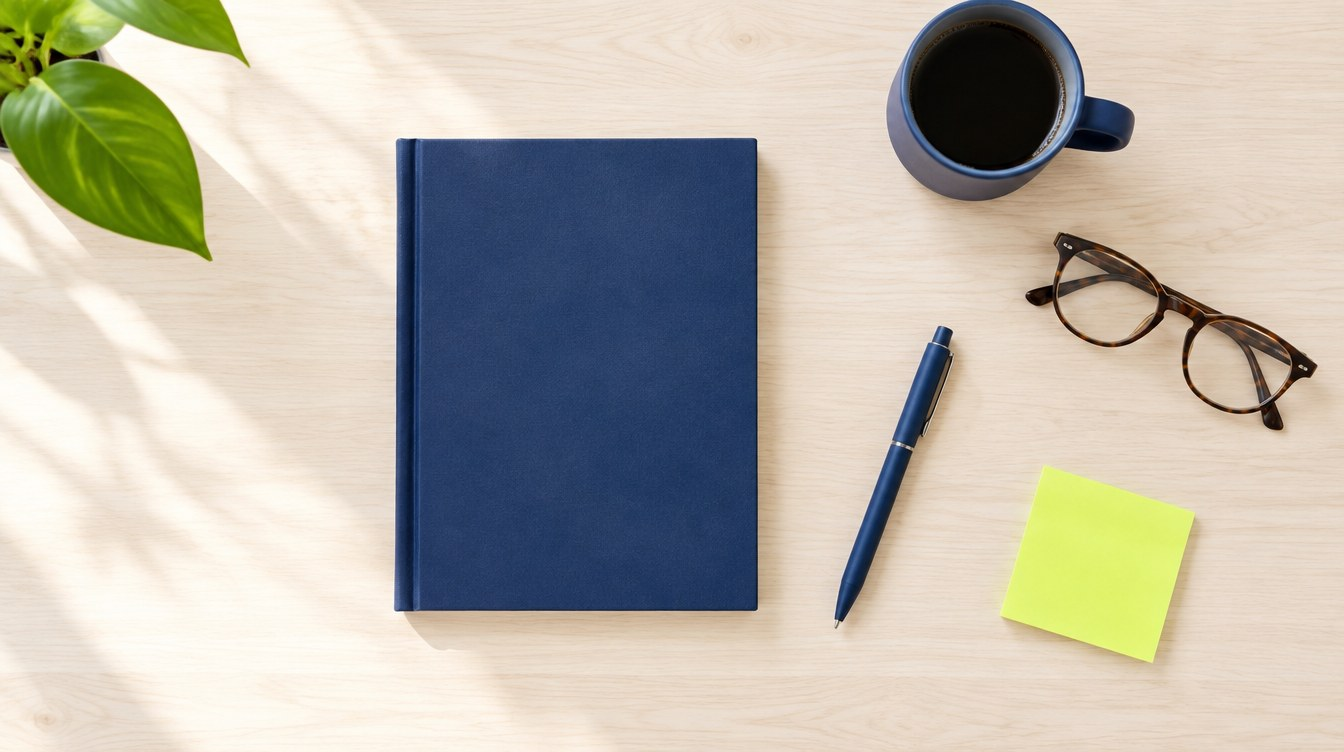
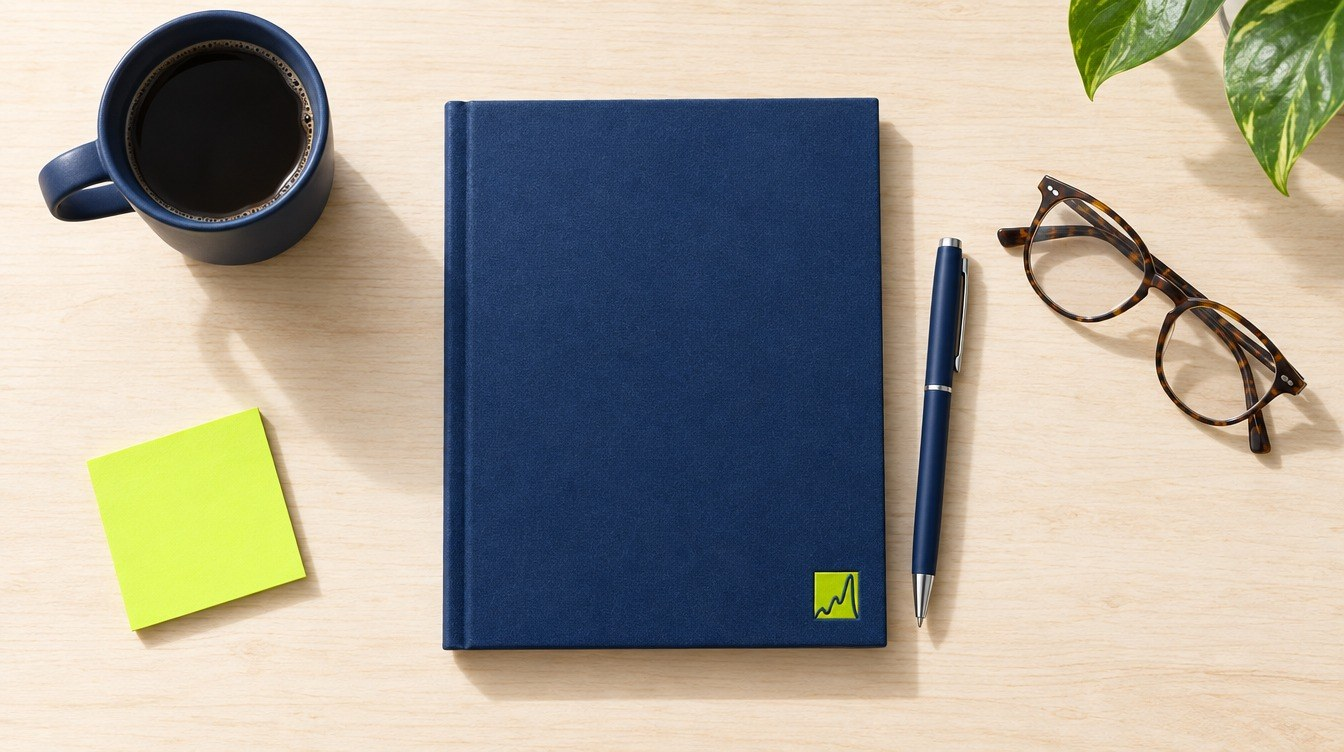
A 404 is a broken page, not evidence of absence (v2.16.3 → v2.17.0)
The city set was meant to be one shot per office hoffman.com lists. It shipped 10.
There are 16.

hoffman.com/locations/europe-pr-agency/ returns a 404 and an earlier pass took that
as settled — no European offices, gap recorded honestly, moved on. The page is just
at a different URL: /locations/pr-agency-europe/, which lists three offices with
LONDON as the European HQ. Checking the sitemap properly found two more gaps: the
US page lists three offices (San Jose, Portland, Boston) and the China page lists
two (Beijing, Shanghai).

Six new shots on their real districts: London (Kings Cross Rd), Munich (Rosental,
Altstadt), Paris (rue Feydeau), Portland (Lloyd District), Boston (Franklin St),
Shanghai (former French Concession).

Lesson, and the transferable part: a 404 is a broken page, not evidence of absence.
Check the sitemap before concluding something does not exist.

The Storyline mark, done by reference rather than by hand. The real SVG rendered,
uploaded and passed to the image model as an image_reference with an instruction to
reproduce it exactly. It lands material, lighting, perspective and shadow far better
than compositing a PNG — my hand-paste overhung the cover edge and muddied the lime
to olive, and a perspective warp onto the stack came out off-plane and was binned.

AGENTS.md §4.6 rewritten. It said "never let a generative model draw a fixed brand
asset", which is too absolute. The rule is now: never let it INVENT one, always give
[…]

diff --git a/CHANGELOG.md b/CHANGELOG.md
@@ -4,6 +4,77 @@ Everything that's changed in the Hoffman design system, newest first. The system
 really lives in the Claude Design project
 (`d10f7f7f-3158-4438-9664-46d071bea8ff`) — this repo is the public copy of it.
 
+## 2026-09-17 — A 404 is a broken page, not evidence of absence (v2.16.3 → v2.17.0)
+
+### Six offices were missing from the city set, including the European HQ
+
+The photography brief was "one street shot per office `hoffman.com` lists." It
+shipped **ten**. There are **sixteen**.
+
+`hoffman.com/locations/europe-pr-agency/` returns a 404, and an earlier pass took
+that as settled: no European offices, nothing to source an address from, gap
+recorded honestly and moved on. **The page is simply at a different URL.** The live
+one is `/locations/pr-agency-europe/`, and it lists three offices — with **London
+as the European HQ**.
+
+Checking the sitemap properly turned up two more gaps in the same list:
+
+- **The US page lists three offices**, not one: San Jose, **Portland** and **Boston**
+- **The China page lists two**: Beijing and **Shanghai**
+
+Six new shots, each on its real district: **London** (Kings Cross Road, wet
+pavement, black cabs, yellow-stock brick), **Munich** (Rosental, Altstadt cobbles,
+market awnings, bicycles), **Paris** (rue Feydeau, a café terrace under Haussmann
+limestone), **Portland** (Lloyd District, damp, firs, the MAX line), **Boston**
+(Franklin Street, granite meeting glass, autumn leaves) and **Shanghai** (plane
+trees and shikumen brick in the former French Concession).
+
+**The lesson is the transferable part: a 404 is a broken page, not evidence of
+absence.** The earlier gap was recorded honestly and was still wrong. Check the
+sitemap before concluding something does not exist.
+
+### The brand mark, done properly — by reference, not by hand
+
+v2.15.0 removed AI-invented squiggles and wrote the rule. This release does the
+positive half: **`assets/storyline-mark.svg` rendered, uploaded, and passed to the
+image model as a reference**, with the instruction to reproduce it exactly.
+
+It lands the material, lighting, perspective and shadow far better than
+hand-compositing a PNG does — a first attempt at pasting it overhung the cover edge
+and muddied the lime to olive, and a perspective warp onto the notebook stack came
+out tilted off-plane and was thrown away.
+
+**`AGENTS.md` §4.6 is rewritten accordingly.** It used to say *never let a
+generative model draw a fixed brand asset*, which is now too absolute. The rule is
+**never let it INVENT one — always give it the real one**, with the three-step
+method and this limit stated plainly:
+
+> This gives you a **faithful reproduction, not the asset**. At the size a mark
+> occupies on a photographed prop it is indistinguishable. It is still not the logo
+> file — never crop one out and use it as artwork, never let one stand in for the
+> real SVG in a layout. Photographs of props only.
+
+### Typographic easter eggs
+
+Same method, different reference: a specimen rendered in the **real Poppins Bold
+and Libre Baskerville Italic** from `fonts/`, handed over as an image reference so
+the type in the photograph is the brand's type rather than a lookalike.
+
+- **`book-spines`** — titles running up navy and cream spines, one word in the
+  serif italic
+- **`highlighter-type`** — *"The story is always there."*, the italic on *always*,
+  a lime highlighter stroke dragged across it and overshooting at one end
+- **`wall-print`** — a framed print, sans headline with one purple italic word,
+  someone walking past
+
+Which answers the earlier note that the easter eggs felt forced: they do not have
+to be the logo. **Brand typography and brand colour are easter eggs too**, and they
+carry less weight.
+
+**49 photographs**, sixteen of them cities.
+
+Minor — six offices found, the mark done by reference, and type that is actually ours.
+
 ## 2026-09-17 — The portrait wall had no Caucasian face on it (v2.16.2 → v2.16.3)
 
 Six storyteller portraits: Korean, Japanese, Malay, Black, Indian, Chinese. A good

diff --git a/AGENTS.md b/AGENTS.md
@@ -89,7 +89,7 @@ The most common Hoffman-deck failure after tiny type is a **mishandled title**: 
 Almost every page in a Hoffman deck carries a graphic/image alongside the text. Do not strip images to make a layout "clean." When a real image isn't available, reserve a standardized placeholder (below). **How to decide whether to generate, ask for, or placeholder an image — and the Hoffman house illustration style — is `IMAGERY.md`; settle it during intake.** Type-only slides are the exception (big statement, pull quote, section divider can be type-led — but even sections often carry a small graphic).
 
 ## 3.5 When we show a market, show THAT market
-We have offices in ten cities and most of them are in Asia. A photograph of
+We have offices in **sixteen cities** — ten of them in Asia, three in the US, three in Europe. A photograph of
 generically "Asian" people in a generically modern office tells a Seoul client
 nothing, and it tells a Taipei client the same nothing. **If a slide is about a
 market, the image has to be recognisably that market.**
@@ -153,16 +153,27 @@ sliced off.
 - **It is not enough to look at the deck once.** This is invisible until a specific
   image lands in a specific slot, so check it whenever either one changes.
 
-## 4.6 Never let a generative model draw a fixed brand asset
-A model cannot reproduce the Storyline, the logo or the wordmark. It can only
-produce **an interpretation** — and an interpretation of the Storyline is a
-violation of it. This is settled, not a matter of taste: **Lou ruled that the
-storyarc must not "take the form of random ribbons in graphics."**
+## 4.6 Never let a generative model INVENT a brand asset — always give it the real one
+Asked to draw the Storyline from a description, a model produces **an
+interpretation**, and an interpretation of the Storyline is a violation of it.
+Settled, not taste: **Lou ruled that the storyarc must not "take the form of
+random ribbons in graphics."**
 
-- **Shoot the prop blank, then composite the real SVG.** A navy notebook with an
-  empty cover, photographed square-on, plus `assets/storyline-mark.svg` tinted to
-  the surface. The asset rules in `README.md` already say which variant belongs on
-  which field; follow them rather than inventing a placement.
+**But you do not have to hand-composite.** Pass the real asset as a **reference
+image** and the model reproduces it rather than inventing it — and it lands the
+material, lighting, perspective and shadow far better than pasting a PNG does.
+That is the method:
+
+1. Render the real SVG (`assets/storyline-mark.svg`, tinted per the surface rules
+   in `README.md`) to a transparent PNG.
+2. Upload it and pass it as an `image_references` input.
+3. In the prompt say **"reproduce it EXACTLY as supplied; do not redraw, restyle,
+   simplify or re-proportion it"**, and state its size and placement.
+
+**Know what this gives you: a faithful reproduction, not the asset.** At the size a
+mark occupies on a photographed prop it is indistinguishable. It is still not the
+logo file, so **never** crop one of these out and use it as artwork, and never let
+one stand in for the real SVG in a layout. Photographs of props only.
 - **Put it in the negative prompt.** `no mark, no emblem, no squiggle, no logo, no
   text, no letters` — models will add a plausible-looking mark unprompted.
 - **Restraint is the better answer anyway.** A mark stamped on every object reads

diff --git a/README.md b/README.md
@@ -4,7 +4,7 @@
   <img src="./assets/readme/hero.svg" width="100%" alt="The Hoffman Agency Design System — brand tokens, 48 slide layouts, and the rules an LLM needs to build on-brand.">
 </p>
 
-**Version 2.16.3** · [full history in `CHANGELOG.md`](CHANGELOG.md) · latest: patch — the storyteller portrait wall had **no Caucasian face** on it. Right that APAC leads (nine of ten offices are in Asia), wrong for a firm with a US worldwide HQ. The Advisor swapped — it was also the third East Asian portrait in a row, so the change loosens that clustering while keeping the APAC majority and the gender balance. Versioned with [SemVer](https://semver.org); the canonical number lives in `package.json`.
+**Version 2.17.0** · [full history in `CHANGELOG.md`](CHANGELOG.md) · latest: minor — **six offices were missing from the city set, including the European HQ.** hoffman.com's Europe page 404s at one URL and works at another; checking the sitemap also found Portland, Boston and Shanghai. Sixteen offices, sixteen shots. Plus the **Storyline mark done properly** — the real SVG passed to the image model as a *reference* rather than hand-composited (`AGENTS.md` §4.6 rewritten: never let a model **invent** a brand asset, always give it the real one), and **typographic easter eggs** set from the actual Poppins and Libre Baskerville. 49 photographs. Versioned with [SemVer](https://semver.org); the canonical number lives in `package.json`.
 
 An integrated communications agency for tech brands. Hoffman helps companies turn complex business challenges into clear, compelling stories across earned, digital, social, content, creative and AI-enabled communications.
 
@@ -210,10 +210,11 @@ assets/
   annotations/                      · 76 hand-drawn marks across 6 categories
     underline·circle·arrow·tick·cross·accent   · 13·15·14·11·11·12
   house-style/                      · 36 worked examples of the house illustration style + the master prompt (see IMAGERY.md)
-  photography/                      · 40 house photographs across the VI deck's four categories — see PROMPTS.md for the treatment and the per-city notes
-    cities/                         · 10 outdoor street shots, one per office hoffman.com lists — market recognisability (see AGENTS.md 3.5)
+  photography/                      · 49 house photographs across the VI deck's four categories — see PROMPTS.md for the treatment and the per-city notes
+    cities/                         · 16 outdoor street shots, one per office hoffman.com lists — market recognisability (see AGENTS.md 3.5)
     moments/                        · 6 'HA Moments' — culture, celebration, the team being people (VI deck slide 26)
     storyteller/                    · 6 studio portraits on solid brand backdrops (VI deck slides 27–28)
+    still-life/                     · 8 props — brand palette, the real Storyline mark and brand type, via image reference (see AGENTS.md 4.6)
 
 fonts/                  · self-hosted brand fonts. Poppins (full 100–900 weight + italic TTFs, all @font-face-registered)
   Poppins-*.ttf                     · 18 roman+italic weight files

diff --git a/assets/photography/cities/README.md b/assets/photography/cities/README.md
@@ -1,33 +1,39 @@
 # City photography — one shot per office
 
-Ten outdoor street photographs, one for each office **hoffman.com itself lists**
-(checked 2026-09-17). They exist because `AGENTS.md Section 3.5` says a slide
-about a market has to look like that market, and a generically modern Asian
-office looks like nowhere.
+Sixteen outdoor street photographs, one for each office **hoffman.com itself
+lists** (re-checked 2026-09-17). They exist because `AGENTS.md Section 3.5` says a
+slide about a market has to look like that market, and a generically modern office
+looks like nowhere.
 
 | File | Office | District |
 |---|---|---|
+| `san-jose-alameda.jpg` | **Worldwide HQ** | The Alameda, San Jose CA |
+| `portland-lloyd.jpg` | US | Lloyd District, Portland OR |
+| `boston-franklin-street.jpg` | US | Franklin Street, Boston MA |
+| `london-kings-cross.jpg` | **European HQ** | Kings Cross Road, London WC1X |
+| `munich-altstadt.jpg` | Germany / DACH | Rosental, Altstadt, Munich |
+| `paris-rue-feydeau.jpg` | France | rue Feydeau, 2nd arr., Paris |
+| `hong-kong-central.jpg` | **APAC HQ** | Central, Queen's Road |
+| `beijing-cbd.jpg` | China | Jianguomenwai CBD |
+| `shanghai-concession.jpg` | China | former French Concession |
 | `taipei-daan.jpg` | Taiwan | Da'an, Dunhua South Road |
 | `seoul-yongsan.jpg` | Korea | Yongsan-gu, Hangang-daero |
 | `tokyo-kyobashi.jpg` | Japan | Kyobashi, Chuo-ku |
-| `hong-kong-central.jpg` | **APAC HQ** | Central, Queen's Road |
-| `beijing-cbd.jpg` | China | Jianguomenwai CBD |
 | `singapore-north-bridge.jpg` | Singapore / SEA | North Bridge Road |
 | `kuala-lumpur-sultan-ismail.jpg` | Malaysia | Jalan Sultan Ismail |
 | `jakarta-sudirman.jpg` | Indonesia | Sudirman / SCBD |
 | `bangkok-wireless-road.jpg` | Thailand | Wireless Road, Lumpini |
-| `san-jose-alameda.jpg` | **Worldwide HQ** | The Alameda, San Jose |
 
-**No European city here on purpose.** Hoffman's own Europe locations page is a
-404 as of 2026-09-17, so there is nothing to source a district or an address
-from. Add one when the site says what it is — don't guess.
+> **This list was wrong until v2.17.0** and the correction is worth recording.
+> `hoffman.com/locations/europe-pr-agency/` is a **404**, so an earlier pass
+> concluded there were no European offices and shipped ten shots. There are three
+> — the live page is `/locations/pr-agency-europe/`, and **London is the European
+> HQ**. The same pass also missed **Portland and Boston** (the US page lists three
+> offices, not one) and **Shanghai**. **A 404 is a broken page, not evidence of
+> absence** — check the sitemap before concluding something does not exist.
 
 Built from the photography seed in `PROMPTS.md` plus a MARKET line; the per-city
 wardrobe and street notes are in that same file. 1344×752, ~200 KB each.
-
-Three of these — Hong Kong, Tokyo and Beijing — came back suit-heavy. That is
-left alone deliberately: Central, Kyobashi and the Beijing CBD really do dress
-that way, and the house lean away from suits is a lean, not a rule.
 
 ---
 
